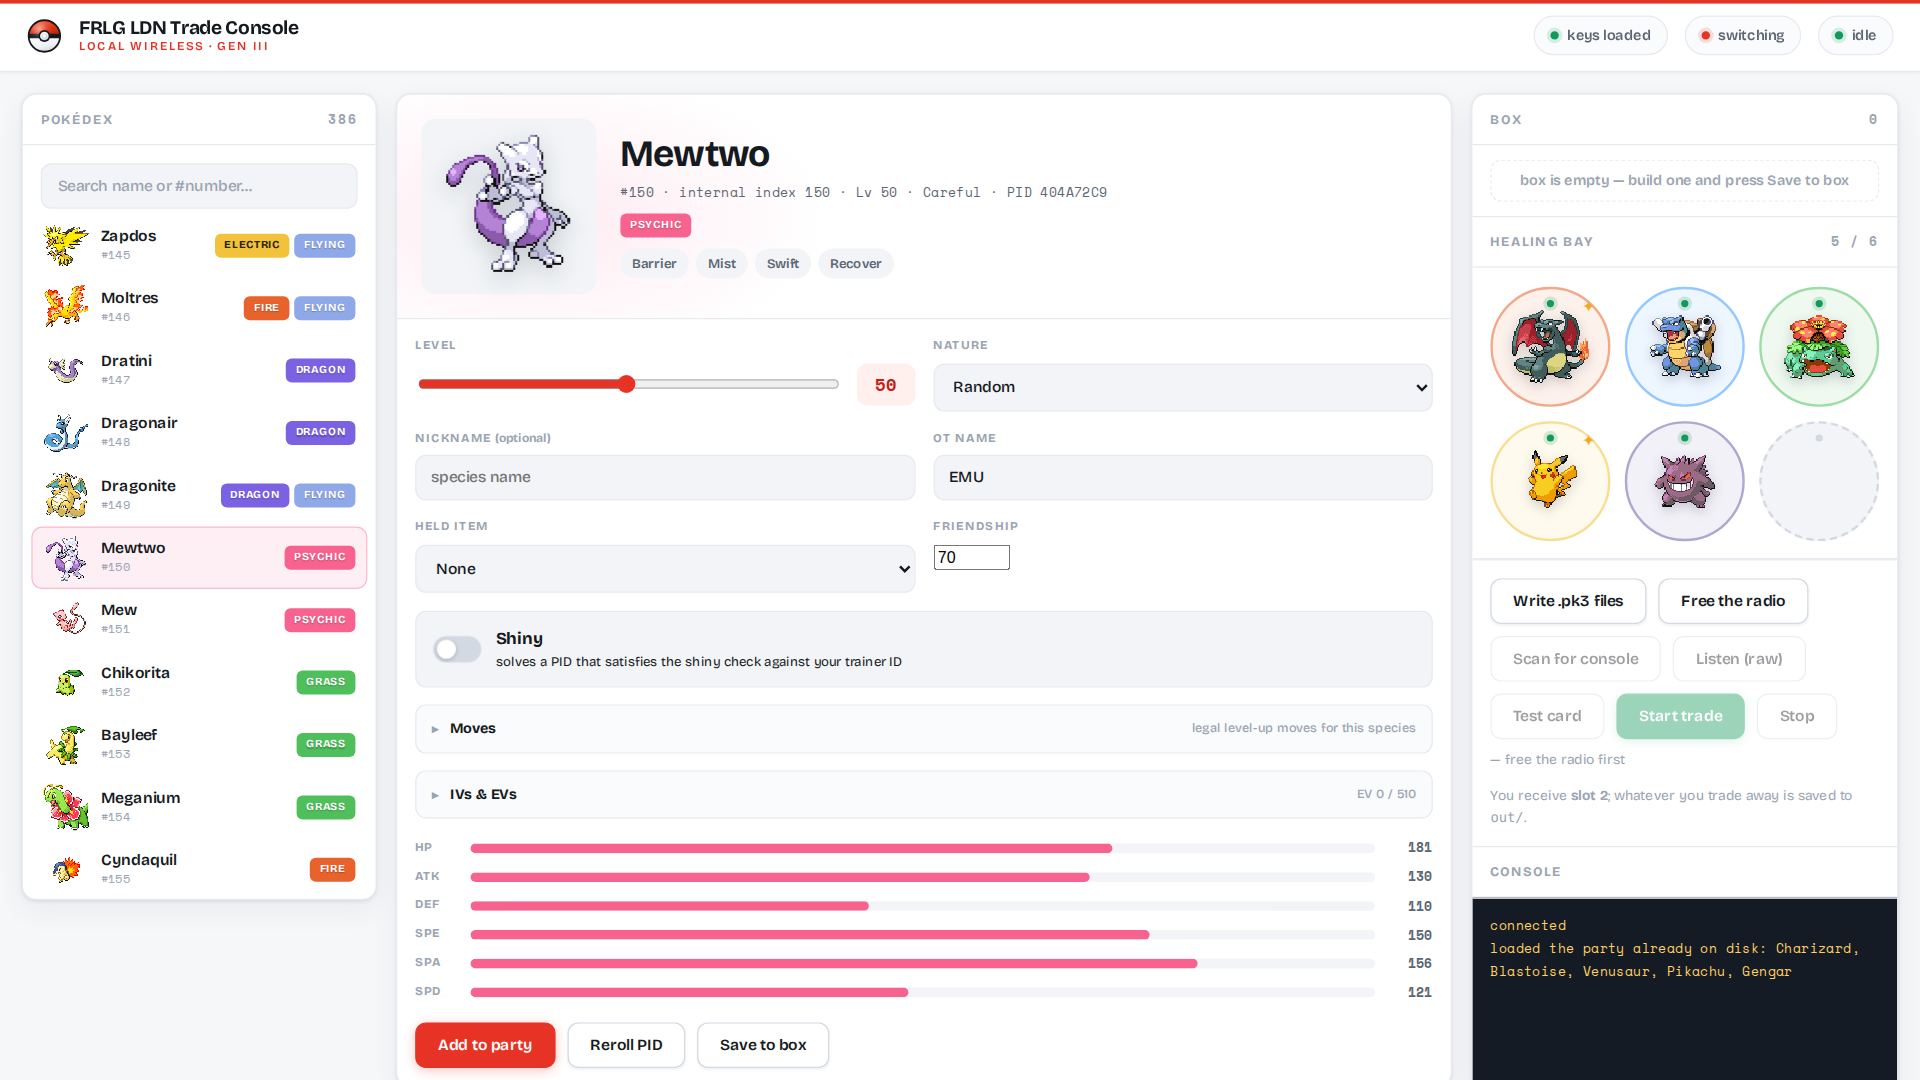
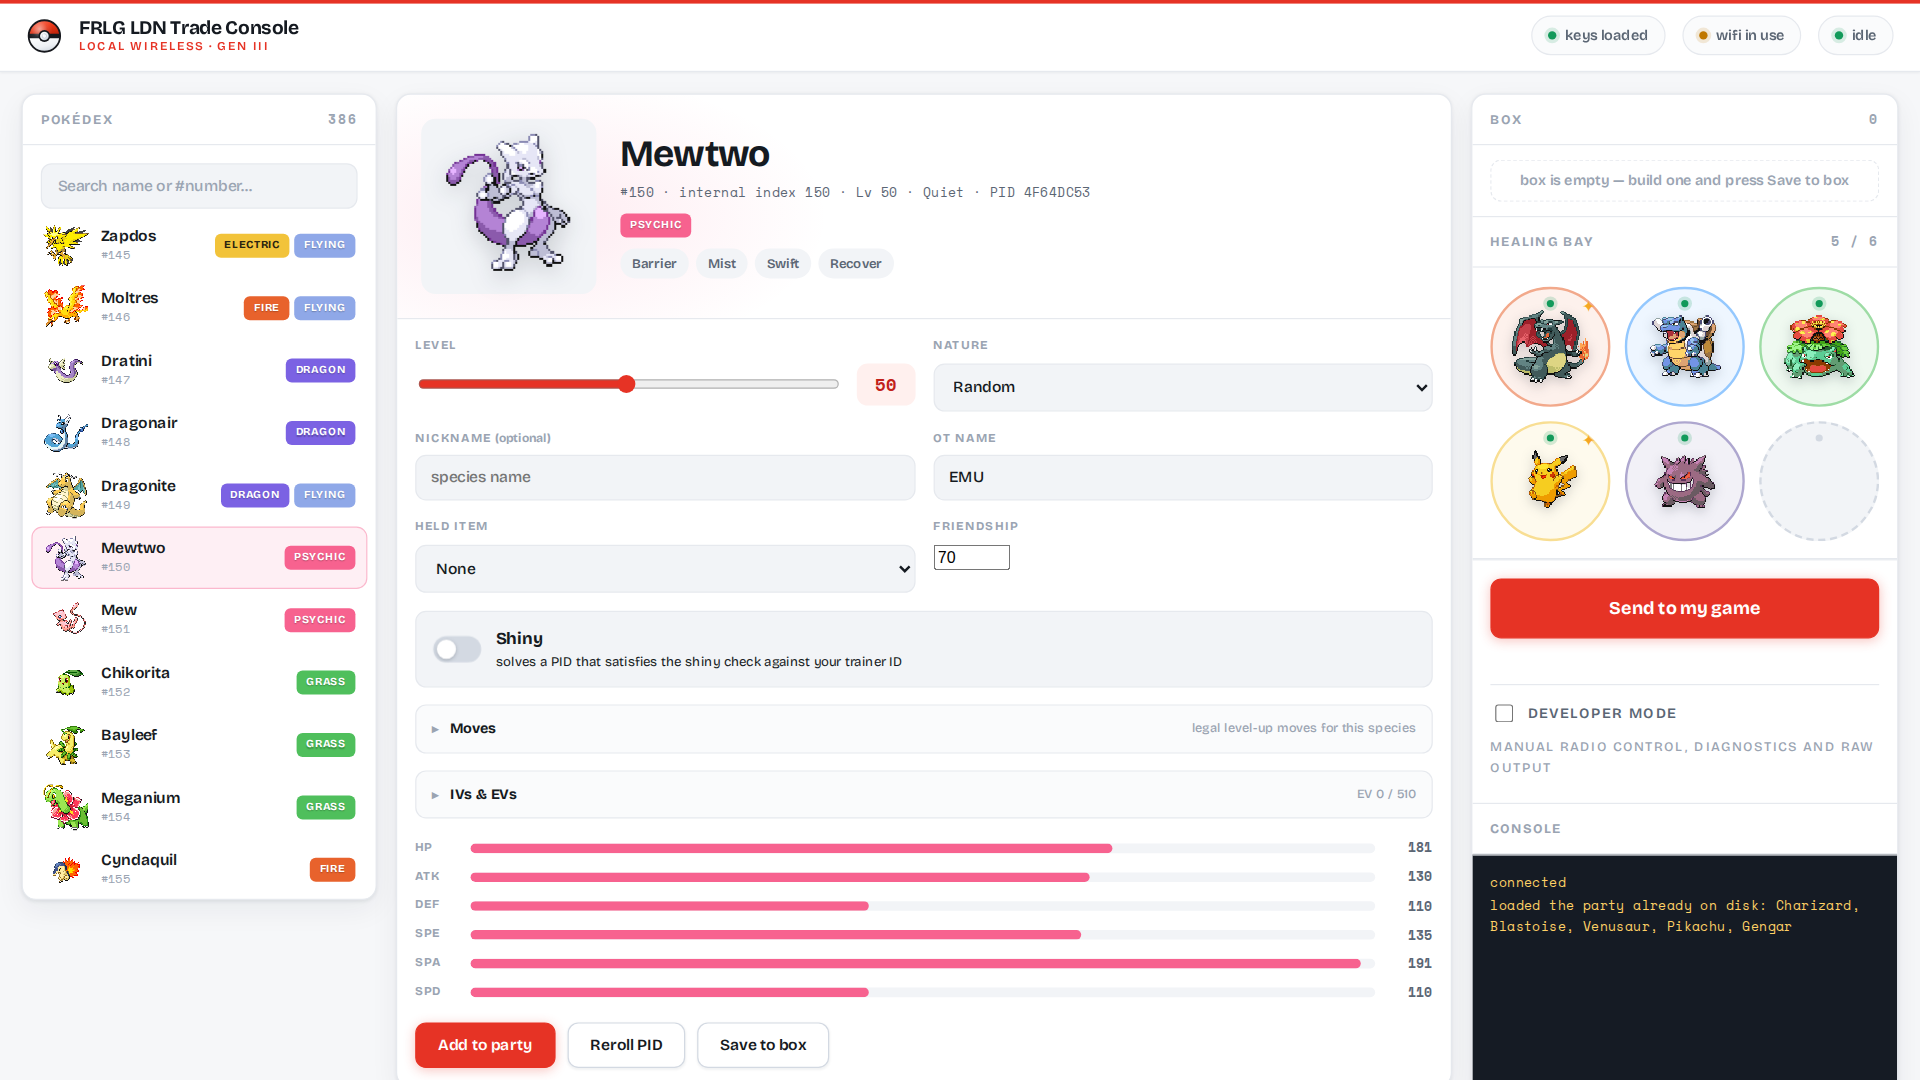
Fix the guided send hanging on 'Freeing the wireless card'
Three faults, all introduced by the repo restructure rather than by the
new flow:

1. The container had no interface configuration. Externalising the names
   into .env for publishing left nothing passing that file in, so the app
   fell back to wlan0/eth0 and ready_for_trade could never become true.
   Routes plainly showed the wired interface as default while /api/status
   reported wired_is_default: false, and the send waited forever on a
   condition already satisfied in reality. docker-compose.yml now has
   env_file: [.env].

2. The systemd helper was dead. radio-agent.sh moved into scripts/ but the
   installed unit still pointed at the old path, so it failed with
   status=203/EXEC and radio requests piled up in control/ unconsumed.
   Units reinstalled with corrected paths.

3. scripts/radio.sh and run.sh sourced $HERE/.env, which after the move
   meant scripts/.env rather than the project root, so the config silently
   did not load. They read $ROOT/.env now, and values are quoted because
   a wireless connection name usually contains spaces.

Also fixes UnboundLocalError in api_send_start: SEND.update() referenced
trades/slot above the lines computing them, so the second dialog 500'd on
Continue. The trade count is now also clamped so a range cannot run past
the end of the party.

Verified end to end: radio take and give-back both succeed, the send
progresses radio -> scan and loops, cancel stops it cleanly, and
networking recovers with Tailscale still up.
[…]

diff --git a/web/app.py b/web/app.py
@@ -521,14 +521,20 @@ def api_send_start():
     if len(party) < 2:
         return jsonify({"error": "prepare the party first"}), 400
     b = request.get_json(silent=True) or {}
-    _send_cancel.clear()
-    SEND.update(active=True, attempt=0, error=None, received=None,
-                started=time.time(), trades=trades, slot=slot)
-    set_phase("radio", "starting")
+    # Work the parameters out BEFORE recording them; a previous edit had the
+    # SEND.update() above these lines, which raised UnboundLocalError and made
+    # the second dialog fail with a 500 the moment you pressed Continue.
     n_party = len(party)
     trades = max(1, min(6, int(b.get("trades") or 1), n_party))
     slot = int(b.get("slot") if b.get("slot") is not None else 1)
     slot = max(0, min(n_party - 1, slot))
+    # ...and do not let the range run off the end of the party.
+    trades = max(1, min(trades, n_party - slot))
+
+    _send_cancel.clear()
+    SEND.update(active=True, attempt=0, error=None, received=None,
+                started=time.time(), trades=trades, slot=slot)
+    set_phase("radio", "starting")
     _send_thread = threading.Thread(
         target=_send_worker,
         args=(bool(b.get("keep_radio")), trades, slot), daemon=True)

diff --git a/README.md b/README.md
@@ -33,13 +33,14 @@ Upstream is a command-line proof of concept: you hand-craft `.pk3` files, wrestl
 the Wi-Fi card away from NetworkManager, and read stack traces when it doesn't
 work. This adds:
 
+- **One button.** Build a party, press *Send to my game*, follow the prompts.
+  The radio handover, discovery, joining and retrying are handled for you.
 - **All 386 Gen III species** with in-game sprites, searchable
 - **Level, nature, nickname, held item, moves, IVs and EVs** — validated against
   what the games actually allow
 - **A party of six and a box** of saved builds
-- **Radio control from the browser** that won't cut your own network
-- **Diagnostics for when it fails** — the hard part of this project is never the
-  Pokémon, it's the radio
+- **Developer mode** puts the manual radio controls and diagnostics back when
+  you need them — the hard part of this project is never the Pokémon, it's the radio
 
 <div align="center">
 
@@ -62,6 +63,33 @@ work. This adds:
 <sub>Usable from a phone while you stand at the Switch</sub>
 
 </div>
+
+<div align="center">
+
+### Sending
+
+<img src="docs/screenshots/send-prepare.png" width="960" alt="Preparing the trade">
+
+<sub>Your whole party as the console will see it · choose how many rounds and which slot they start from · the <code>.pk3</code> files are written while you read</sub>
+
+<img src="docs/screenshots/send-progress.png" width="960" alt="Sending">
+
+<sub>Console instructions on the left, live progress on the right, and a technical log if you want it. Retries on a loop until the trade lands or you cancel.</sub>
+
+</div>
+
+### How a trade actually works
+
+Worth knowing, because it shapes the whole interface:
+
+- **Your entire party is transmitted.** During the party-exchange phase the full
+  `gPlayerParty` block goes across, so your Switch shows the simulated trainer's
+  whole team on the trade screen, exactly as it would a real partner's.
+- **But a trade is one-for-one, and symmetric.** Each side sends a cursor into
+  its *own* party. You pick one of yours on the console; the simulated trainer
+  nominates one of its own. Neither side browses the other's team and chooses.
+- **So to receive more than one, you do more rounds.** The trade menu stays up
+  between them. Pick up to six in the prepare screen.
 
 ### Details it gets right
 
@@ -143,13 +171,17 @@ handling take the card.
 
 ## Using it
 
-1. On the Switch: **Direct Corner → trade → Leader**, and *stay on the waiting screen*
-2. **Scan for console** — confirms your session is visible before you commit
-3. **Start trade** → approve the join from `EMU` on the Switch
-4. Walk to the **left chair**, pick what you're sending, accept
+1. Build a party in the dex, and **Write .pk3 files** is done for you
+2. On the Switch: **Direct Corner → trade → Leader**, and *stay on the waiting screen*
+3. Press **Send to my game**, check the preview, press **Continue**
+4. Approve the join from `EMU`, walk to the **left chair**, pick one of your own
+   Pokémon to give, accept
 5. Back at the trade menu, **cancel**, then walk out
 
-You receive whatever is in **slot 2**. What you traded away is saved to `out/`.
+Whatever you gave up is saved to `out/`. Press **Cancel** at any point to stop.
+
+Everything manual — write, free the radio, scan, listen, test card, start, stop —
+lives behind the **Developer mode** toggle.
 
 ## When it doesn't work
 
@@ -181,6 +213,7 @@ The most common failure, with four distinct causes — all fixed in [`patches/`]
 ```
 browser ──HTTP/SSE──► Flask (container, host network, privileged)
                         │
+                        ├── app.py        guided-send state machine + SSE
                         ├── pk3build.py   .pk3 construction: crypto, PID solving, stats
                         ├── scan.py       LDN discovery
                         ├── diag.py       raw capture + injection test
